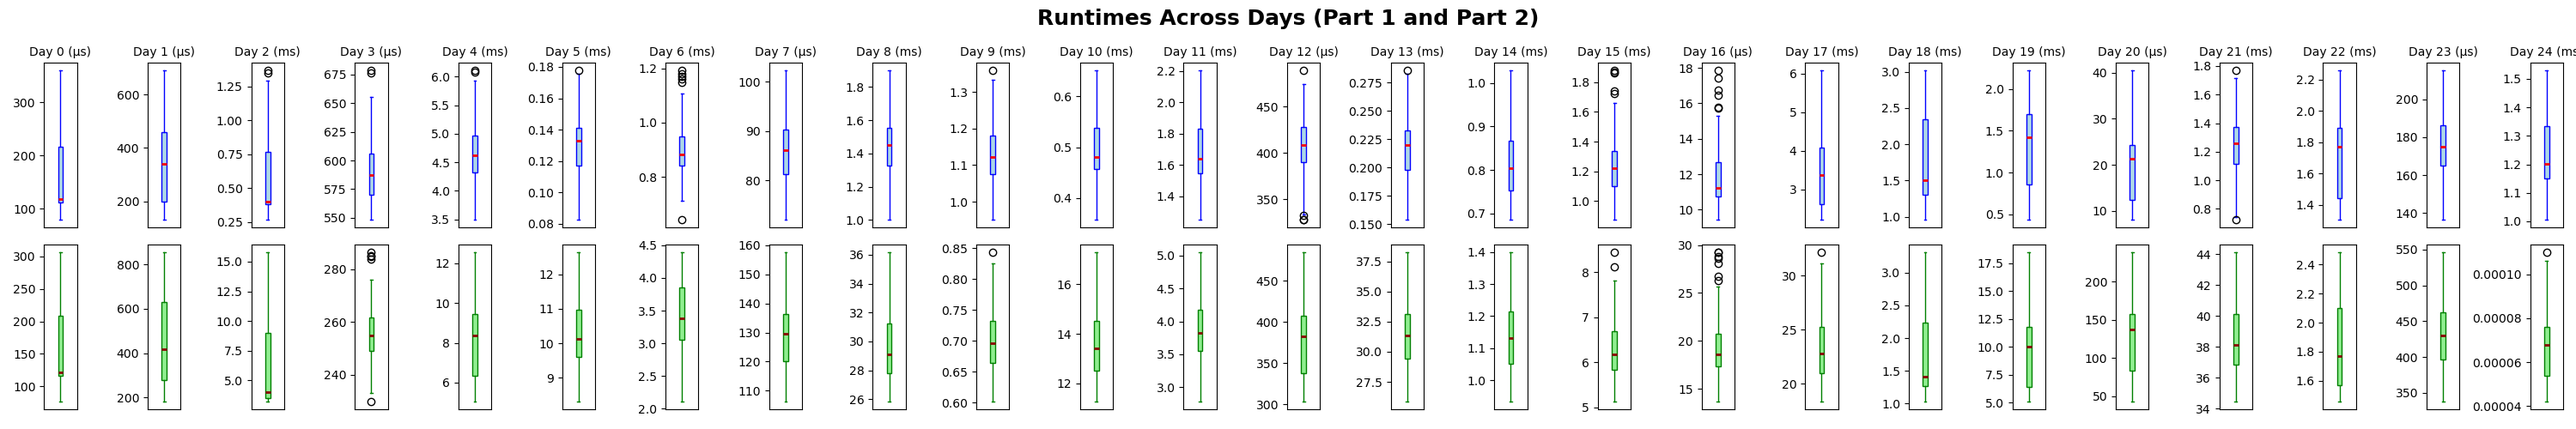
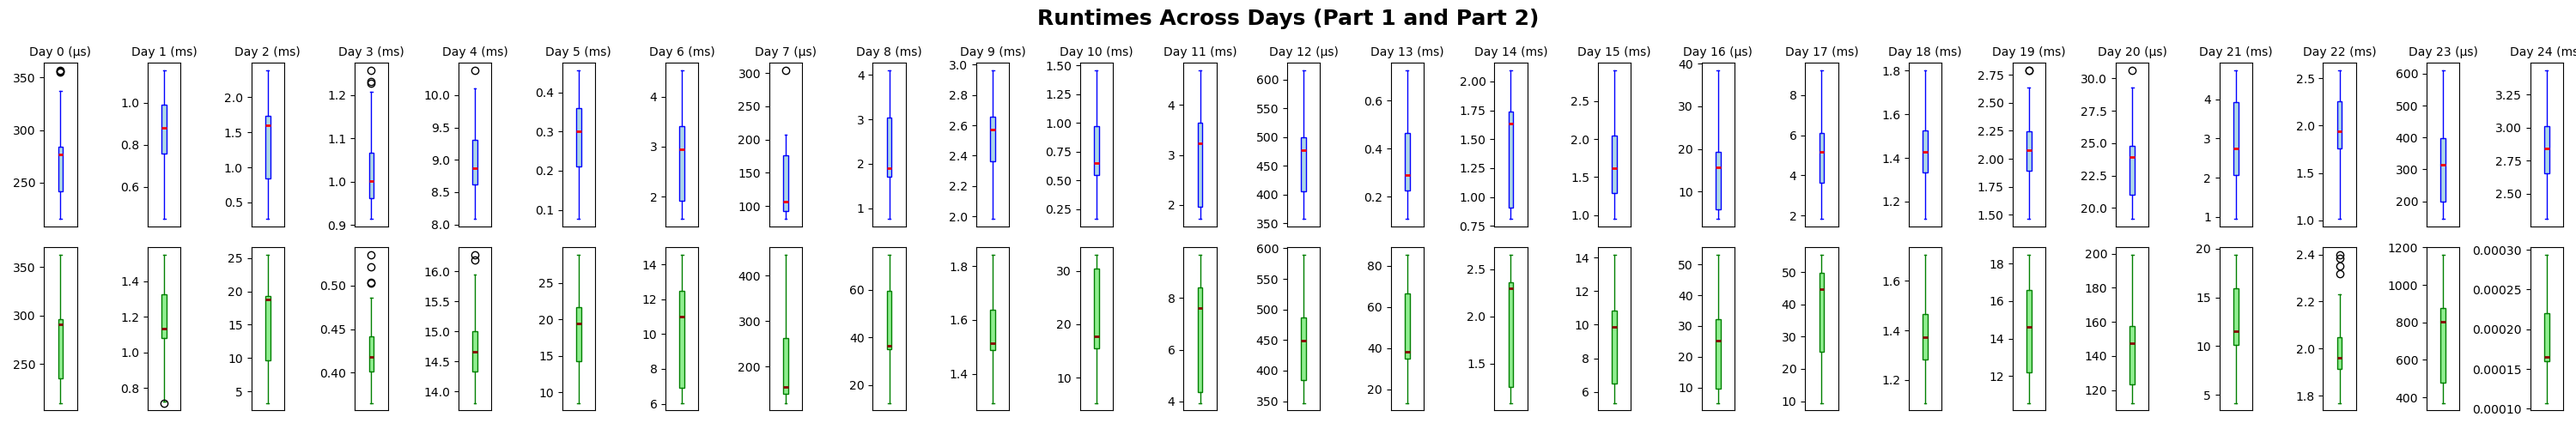
Day 22 🚀

diff --git a/day22/src/main.rs b/day22/src/main.rs
@@ -1,5 +1,16 @@
+//! --- Day 22: Monkey Market ---
+//! https://adventofcode.com/2024/day/22
+//!
+//! This solution focuses on using threads to speed up the computation.
+//! The most simplistic solution does require about two million iterations to finish.
+//!
+//! For part two,
+//! we can assume differences as base 19 and hash the four differences into a single number.
+//! Additional information about this solution can be found in the module-level documentation.
+
 use rayon::prelude::*;
-use utils::test_solutions;
+use std::sync::Mutex;
+use utils::{activate_all_threads, test_solutions};
 
 fn main() {
     test_solutions(22, &first_part, Some(37327623), &second_part, Some(24));
@@ -7,7 +18,7 @@ fn main() {
 
 /* ------------------- Helpers ------------------- */
 
-/// Parses and turns the given input into a vector of numbers
+/// Parses and turns the given input into a vector of numbers.
 fn get_numbers(input: &str) -> Vec<u32> {
     input
         .lines()
@@ -15,6 +26,8 @@ fn get_numbers(input: &str) -> Vec<u32> {
         .collect::<Vec<u32>>()
 }
 
+/// Calculates the next random number using the XOR-Shift algorithm.
+/// This is used to generate the random numbers for today's challenge.
 fn get_next(num: u32) -> u32 {
     let mut num = num;
     num ^= num << 6;
@@ -25,14 +38,11 @@ fn get_next(num: u32) -> u32 {
     num
 }
 
-/// Calculates the sequence of numbers while putting the difference sequence of 4 into the cache...
-/// Annoying day
-fn cache_sequence(
-    bool_cache: &mut [bool; 130321],
-    number_cache: &mut [u32; 130321],
-    num: u32,
-    highest_number: &mut u32,
-) {
+/// For each number, calculates the sequence of numbers while putting the difference sequence of 4 into the cache.
+/// Hashes the sequence of four numbers into a single number and stores it in the cache instead of HashMap.
+/// For each difference, maps [-9, 9] to [0, 18] then uses base 19 to base 10 conversion.
+/// Seen cache is there to avoid caching the same sequence twice.
+fn cache_sequence(seen_cache: &mut [bool; 130321], number_cache: &mut [u32; 130321], num: u32) {
     let num_0 = num; // 123456
     let num_1 = get_next(num_0); // 15887950
     let num_2 = get_next(num_1); // 16495136
@@ -58,15 +68,11 @@ fn cache_sequence(
         diff_2 = diff_3;
 
         // If the hash id is not already in the current input cache, add it
-        if bool_cache[hash_id] {
+        if seen_cache[hash_id] {
             continue;
         }
-        bool_cache[hash_id] = true;
+        seen_cache[hash_id] = true;
         number_cache[hash_id] += secret;
-
-        if number_cache[hash_id] > *highest_number {
-            *highest_number = number_cache[hash_id];
-        }
     }
 }
 
@@ -74,18 +80,20 @@ fn cache_sequence(
 
 fn first_part(input: &str) -> u64 {
     let numbers = get_numbers(input);
-    numbers
-        .par_iter()
-        .map(|&number| {
-            let mut num = number;
-            for _ in 0..2000 {
-                num ^= num << 6;
+    activate_all_threads(numbers)
+        .map(|(_, numbers)| {
+            let mut total = 0;
+            for mut num in numbers {
+                for _ in 0..2000 {
+                    num ^= num << 6;
+                    num &= 0xffffff;
+                    num ^= num >> 5;
+                    num ^= num << 11;
+                }
                 num &= 0xffffff;
-                num ^= num >> 5;
-                num ^= num << 11;
-                num &= 0xffffff;
+                total += num as u64;
             }
-            num as u64
+            total
         })
         .sum::<u64>()
 }
@@ -93,12 +101,26 @@ fn first_part(input: &str) -> u64 {
 fn second_part(input: &str) -> u32 {
     let numbers = get_numbers(input);
 
-    let highest_number = &mut 0;
-    let mut number_cache = [0; 130321];
-    numbers.iter().for_each(|&number| {
-        let mut bool_cache = [false; 130321];
-        cache_sequence(&mut bool_cache, &mut number_cache, number, highest_number);
+    let mutex_highest = Mutex::new(0);
+    let mutex_cache = Mutex::new([0; 130321]);
+    activate_all_threads(numbers).for_each(|(_, numbers)| {
+        let mut number_cache = [0; 130321];
+
+        for number in numbers {
+            let mut seen = [false; 130321];
+            cache_sequence(&mut seen, &mut number_cache, number);
+        }
+
+        let mut cache = mutex_cache.lock().unwrap();
+        let mut highest = mutex_highest.lock().unwrap();
+        for i in 0..130321 {
+            cache[i] += number_cache[i];
+            if cache[i] > *highest {
+                *highest = cache[i];
+            }
+        }
     });
 
-    *number_cache.iter().max().unwrap()
+    let result = mutex_highest.lock().unwrap();
+    *result
 }

diff --git a/README.md b/README.md
@@ -41,7 +41,7 @@ Box Plot - [**executionTimesBox.png**](./executionTimesBox.png).
 | [Day 19](./day19/src/main.rs) |  1.509ms  |  1.417ms  |
 | [Day 20](./day20/src/main.rs) |  1.628ms  | 10.205ms  |
 | [Day 21](./day21/src/main.rs) | 21.091µs  | 137.173µs |
-| [Day 22](./day22/src/main.rs) | 14.531ms  | 41.554ms  |
+| [Day 22](./day22/src/main.rs) |  2.748ms  | 11.532ms  |
 | [Day 23](./day23/src/main.rs) |  1.734ms  |  1.648ms  |
 | [Day 24](./day24/src/main.rs) | 164.410µs | 400.493µs |
 | [Day 25](./day25/src/main.rs) |  1.174ms  | 62.000ns  |
